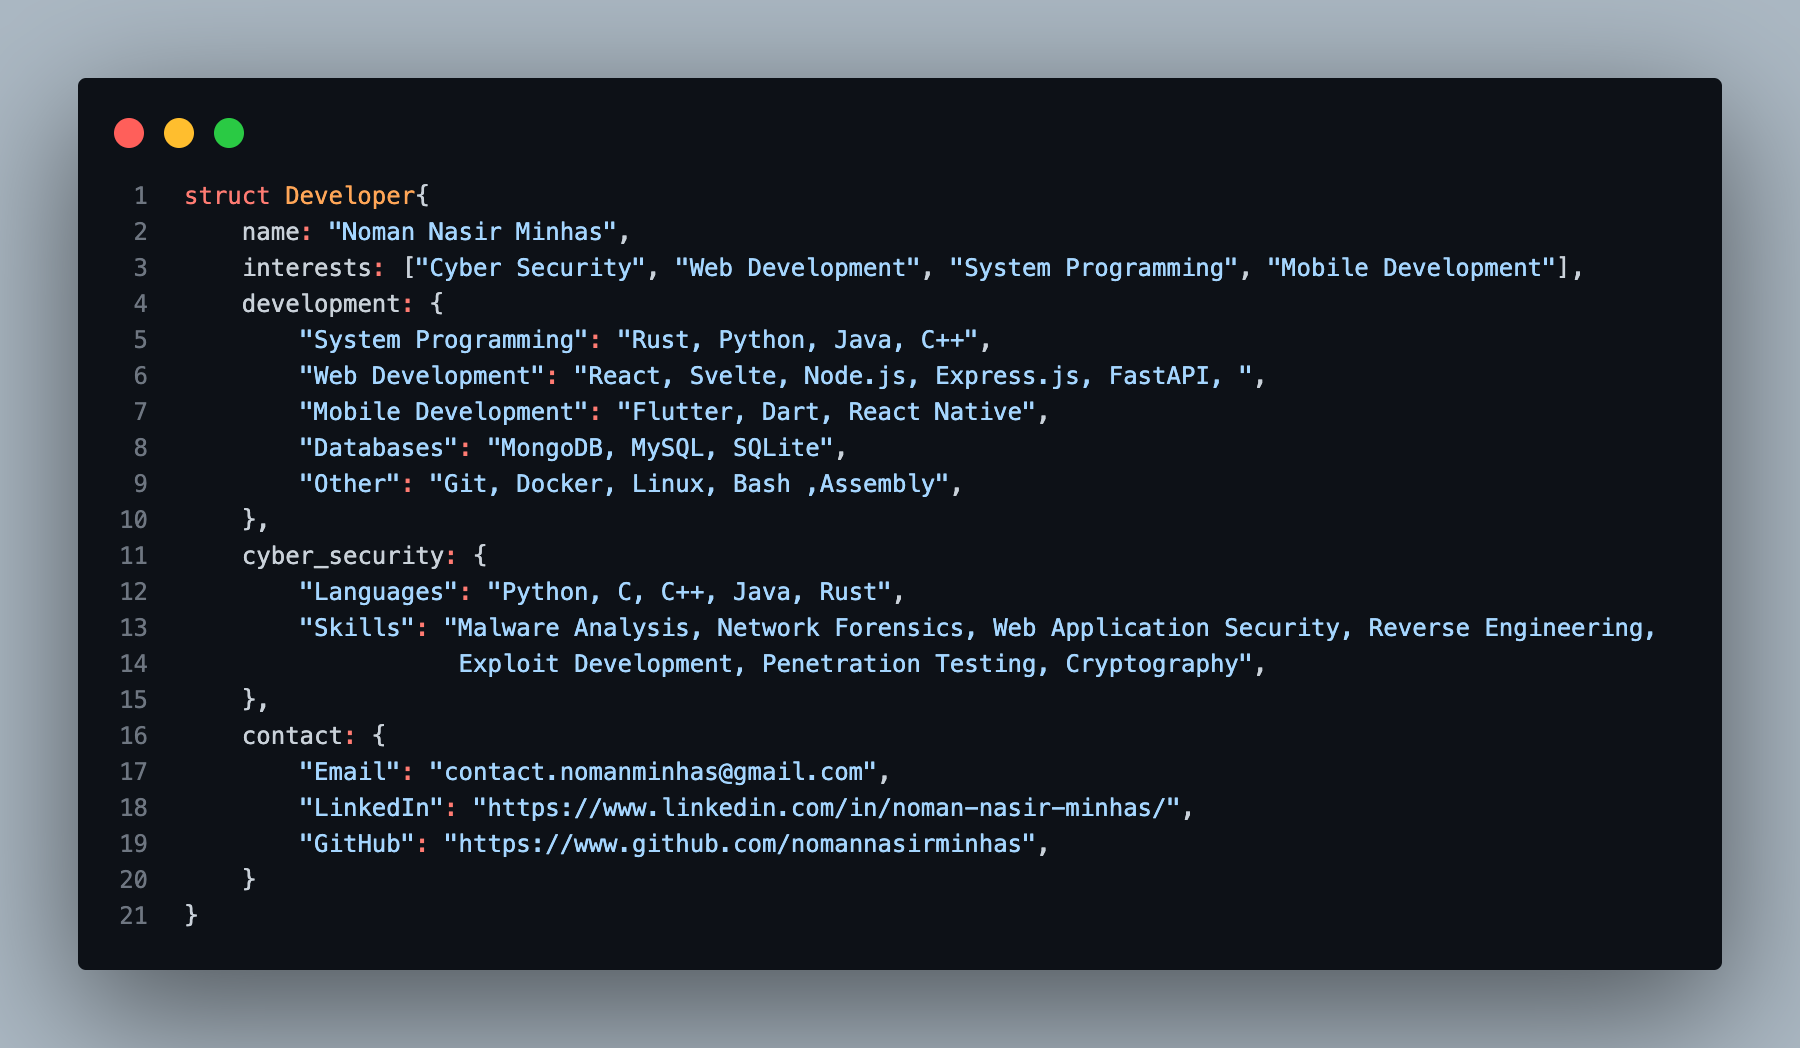
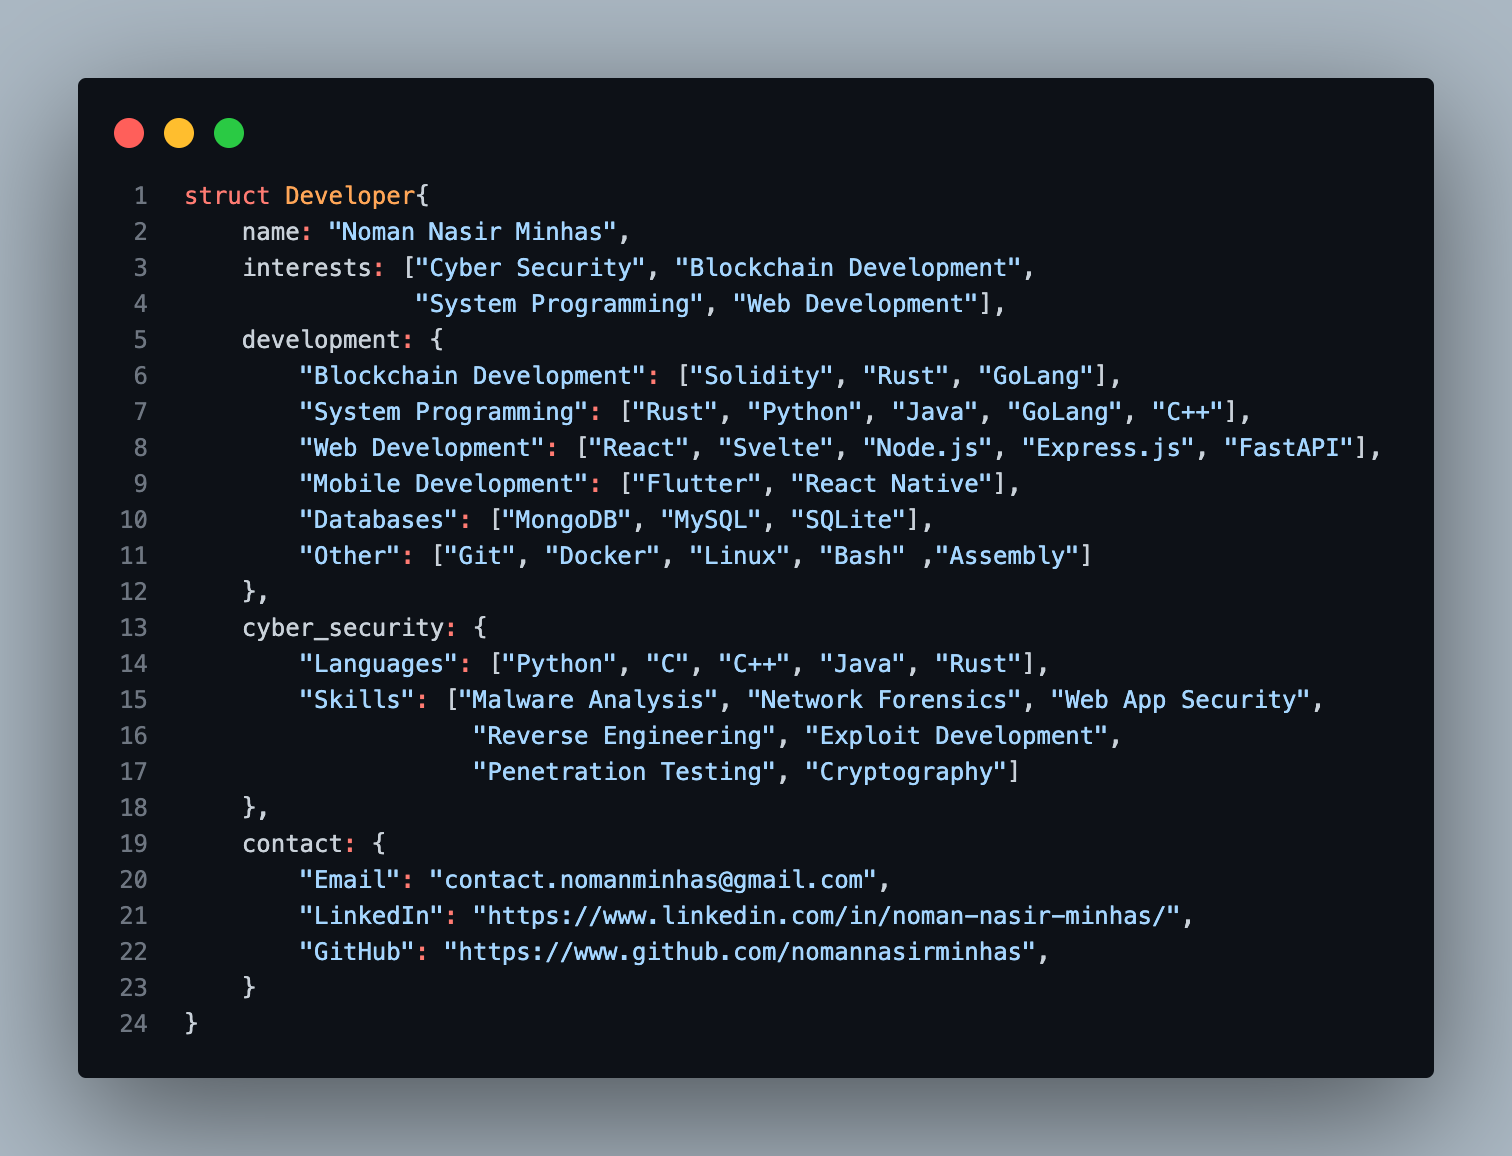
Publications Section Added

diff --git a/src/components/Skills.js b/src/components/Skills.js
@@ -10,8 +10,8 @@ import rust from "../assets/skills/rust.svg"
 import python from "../assets/skills/python.svg"
 import reactIcon from "../assets/skills/react.svg"
 import tailwind from "../assets/skills/tailwind.svg"
-// import react from "../assets/skills/react.svg"
-// import express from "../assets/skills/express1.svg"
+import golang from "../assets/skills/golang.svg"
+import solidity from "../assets/skills/solidity.svg"
 import java from "../assets/skills/java.svg"
 import cpp from "../assets/skills/cpp.svg"
 import assembly from "../assets/skills/assembly.svg"
@@ -36,11 +36,11 @@ export default function Skills() {
     return (
         <div id="skills" className="mt-4 text-white">
             <h1 className="text-2xl font-bold">Skills</h1>
-            <p className="font-light text-gray-400">Here are some of my skills</p>
-
             <div className="mt-4">
                 <Slider {...settings}>
                 <SkillCard name="Rust" experience="3 years" img={rust} />
+                <SkillCard name="Solidity" experience="3 years" img={solidity} />
+                <SkillCard name="GoLang" experience="1 year" img={golang} />
                 <SkillCard name="Bash" experience="2 years" img={bash} />
                 <SkillCard name="Python" experience="2 years" img={python} />
                 <SkillCard name="Javascript" experience="4 years" img={javascript} />

diff --git a/src/components/Publications.js b/src/components/Publications.js
@@ -1,0 +1,28 @@
+import Slider from 'react-slick';
+import 'slick-carousel/slick/slick.css';
+import 'slick-carousel/slick/slick-theme.css';
+import PublicationsCard from "./PublicationsCard"
+import hr from "../assets/curve-hr.svg"
+
+export default function Publications() {
+    const settings = {
+        dots: true,
+        autoplay: true,
+        infinite: true,
+        slidesToShow: 1,
+        slidesToScroll: 2
+      };
+
+    return (
+        <div id="skills" className="mt-4 text-white">
+            <h1 className="text-2xl font-bold">Publications</h1>
+            <div className="mt-4">
+                <Slider {...settings}>
+                <PublicationsCard name="iTrace: When IOTA Meets COVID-19 Contact Tracing" 
+                                    in="IEEE IT Professional" on="Jan.-Feb. 2022, pp. 56-62, vol. 24" doi="https://doi.ieeecomputersociety.org/10.1109/MITP.2021.3134896"/>
+                </Slider>
+            </div>
+            <img src={hr} className="w-full mt-8 md:h-3" alt="hr" />
+        </div>
+    )
+}

diff --git a/src/components/Hiro.js b/src/components/Hiro.js
@@ -27,7 +27,7 @@ export default function Hiro () {
                 <div className="flex flex-col w-full mt-8">
                     <h1 className="text-xl text-white-400">Hi, I'm</h1>
                     <h1 className="text-2xl font-bold">Noman Nasir Minhas</h1>
-                    <p class="text-xl font-bold text-gray-300">Software Developer</p>
+                    <p class="text-xl font-bold text-gray-300">Full Stack Blockchain Developer</p>
                     <p className="text-md font-bold text-white-400 ">Code like a ninja, debug like a pirate, and deploy like a pro. Welcome to my portfolio, where the only bugs you'll find are in the code.</p>
                 </div>
                 {/* <a href='https://www.github.com/NomanNasirMinhas' className='mt-2 block'>See My Github <FontAwesomeIcon className='ml-2' icon={faCircleArrowRight}/> </a> */}

diff --git a/src/components/PublicationsCard.js b/src/components/PublicationsCard.js
@@ -1,0 +1,12 @@
+export default function PublicationsCard(props){
+    return (
+        <div data-aos="fade-up" data-aos-duration="500" data-aos-offset="100" className="w-11/12  p-4 text-center justify-center border-2 border-gray-800 bg-dark-200 rounded-md flex flex-col h-48">
+            <div className="mt-2">
+                <h1 className="font-bold md:text-xl">{props.name}</h1>
+                <h1 className="font-light md:text-xl">{props.in}</h1>
+                <h1 className="font-light md:text-lg">{props.on}</h1>
+                <p className="font-light md:text-md">{props.doi}</p>
+            </div>
+        </div>
+    )
+}

diff --git a/src/App.js b/src/App.js
@@ -3,6 +3,7 @@ import {useEffect} from 'react'
 import Navbar from './components/Navbar';
 import Hiro from './components/Hiro';
 import Skills from './components/Skills'
+import Publications from './components/Publications';
 import Honors from './components/Honors';
 import Certs from './components/Certs';
 import Footer from './components/Footer';
@@ -20,6 +21,7 @@ function App() {
       <Navbar />
       <Hiro />
       <Skills />
+      <Publications />
       <Honors />
       <Certs />
       <Footer />

diff --git a/src/components/intro.rs b/src/components/intro.rs
@@ -1,17 +1,20 @@
 struct Developer{
     name: "Noman Nasir Minhas",
-    interests: ["Cyber Security", "Web Development", "System Programming", "Mobile Development"],
+    interests: ["Cyber Security", "Blockchain Development", 
+                "System Programming", "Web Development"],
     development: {
-        "System Programming": "Rust, Python, Java, C++",
-        "Web Development": "React, Svelte, Node.js, Express.js, FastAPI, ",
-        "Mobile Development": "Flutter, Dart, React Native",
-        "Databases": "MongoDB, MySQL, SQLite",
-        "Other": "Git, Docker, Linux, Bash ,Assembly",
+        "Blockchain Development": ["Solidity", "Rust", "GoLang"],
+        "System Programming": ["Rust", "Python", "Java", "GoLang", "C++"],
+        "Web Development": ["React", "Svelte", "Node.js", "Express.js", "FastAPI"],
+        "Mobile Development": ["Flutter", "React Native"],
+        "Databases": ["MongoDB", "MySQL", "SQLite"],
+        "Other": ["Git", "Docker", "Linux", "Bash" ,"Assembly"]
     },
     cyber_security: {
-        "Languages": "Python, C, C++, Java, Rust",
-        "Skills": "Malware Analysis, Network Forensics, Web Application Security, Reverse Engineering, 
-                   Exploit Development, Penetration Testing, Cryptography",
+        "Languages": ["Python", "C", "C++", "Java", "Rust"],
+        "Skills": ["Malware Analysis", "Network Forensics", "Web App Security", 
+                    "Reverse Engineering", "Exploit Development", 
+                    "Penetration Testing", "Cryptography"]
     },
     contact: {
         "Email": "contact.nomanminhas@gmail.com",
